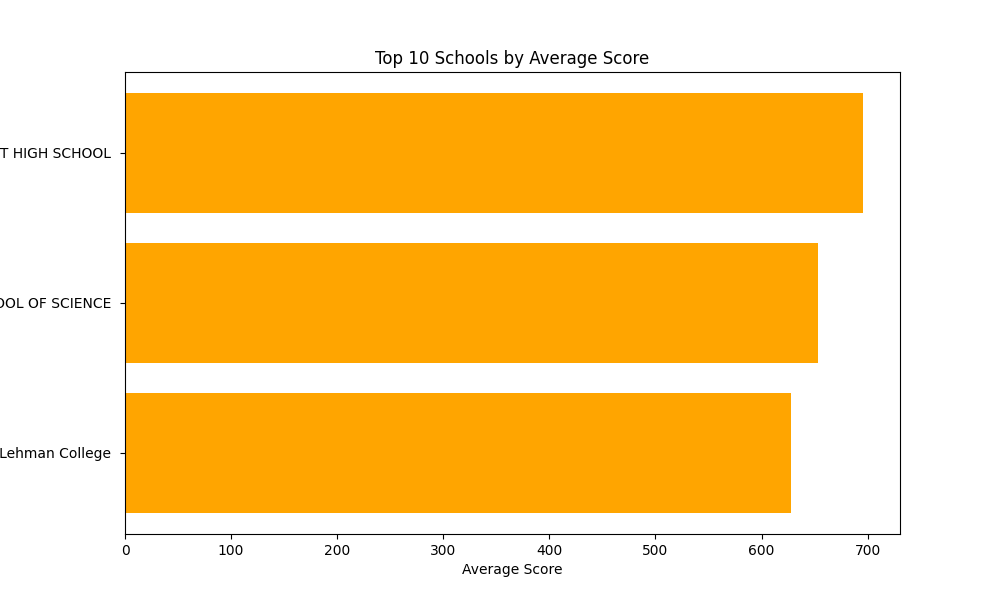
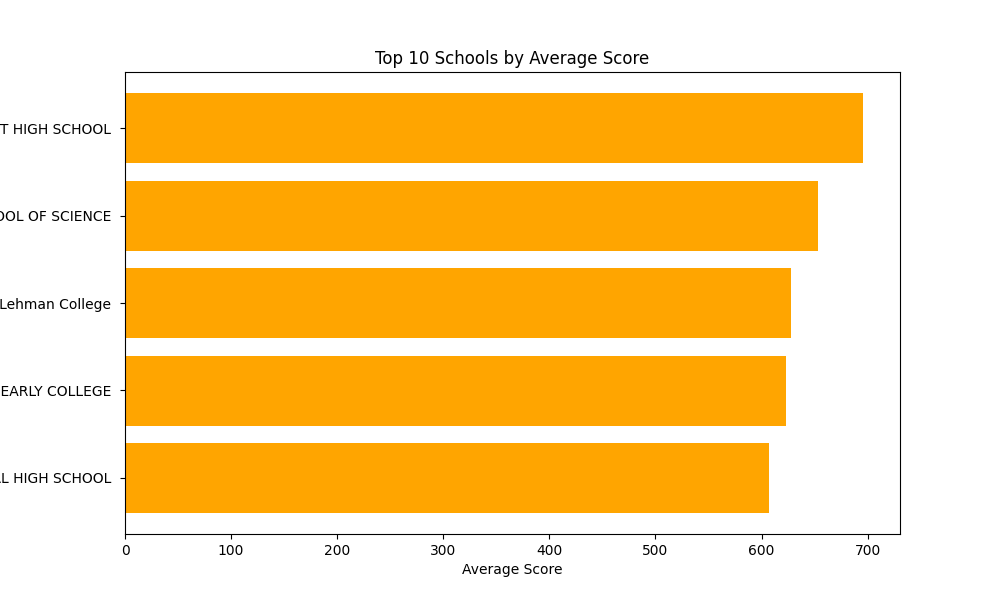
graficos arreglo

diff --git a/datos/sitio/views.py b/datos/sitio/views.py
@@ -46,13 +46,13 @@ def view_data(request):
 
     static_dir = os.path.join(settings.STATIC_ROOT, 'images')
     
-    top10_average = data.order_by('-Average_Score')[:10]
+    top10_average = data.order_by('-Average_Score')[:20]
     school_nameso = [school.School_Name for school in top10_average]
     average = [school.Average_Score for school in top10_average]
     plt.figure(figsize=(10, 6))
     plt.barh(school_nameso, average, color='orange')
     plt.xlabel('Average Score')
-    plt.title('Top 10 Schools by Average Score')
+    plt.title('Top 5 Schools by Average Score')
     plt.gca().invert_yaxis()
     average_image_path = os.path.join(static_dir, 'top10average.png')
     plt.savefig(average_image_path)
@@ -76,37 +76,37 @@ def view_data(request):
         }
     }
 
-    top10_maths = data.order_by('-Mathematics_Mean')[:10]
+    top10_maths = data.order_by('-Mathematics_Mean')[:20]
     school_names = [school.School_Name for school in top10_maths]
     math_means = [school.Mathematics_Mean for school in top10_maths]
     plt.figure(figsize=(10, 6))
     plt.barh(school_names, math_means, color='maroon')
     plt.xlabel('Mathematics Mean Score')
-    plt.title('Top 10 Schools by Mathematics Mean Score')
+    plt.title('Top 3 Schools by Mathematics Mean Score')
     plt.gca().invert_yaxis()
     math_image_path = os.path.join(static_dir, 'top10maths.png')
     plt.savefig(math_image_path)
     plt.close()
 
-    top10_reading = data.order_by('-Critical_Reading_Mean')[:10]
+    top10_reading = data.order_by('-Critical_Reading_Mean')[:20]
     school_namesm = [school.School_Name for school in top10_reading]
     math_means = [school.Critical_Reading_Mean for school in top10_reading]
     plt.figure(figsize=(10, 6))
     plt.barh(school_namesm, math_means, color='seagreen')
     plt.xlabel('Critical Reading Mean Score')
-    plt.title('Top 10 Schools by Critical Reading Mean Score')
+    plt.title('Top 3 Schools by Critical Reading Mean Score')
     plt.gca().invert_yaxis()
     reading_image_path = os.path.join(static_dir, 'top10reading.png')
     plt.savefig(reading_image_path)
     plt.close()
 
-    top10_writing = data.order_by('-Writing_Mean')[:10]
+    top10_writing = data.order_by('-Writing_Mean')[:20]
     school_namesw = [school.School_Name for school in top10_writing]
     writing_means = [school.Writing_Mean for school in top10_writing]
     plt.figure(figsize=(10, 6))
     plt.barh(school_namesw, writing_means, color='skyblue')
     plt.xlabel('Critical Reading Mean Score')
-    plt.title('Top 10 Schools by Writing Mean Score')
+    plt.title('Top 3 Schools by Writing Mean Score')
     plt.gca().invert_yaxis()
     writing_image_path = os.path.join(static_dir, 'top10writing.png')
     plt.savefig(writing_image_path)
